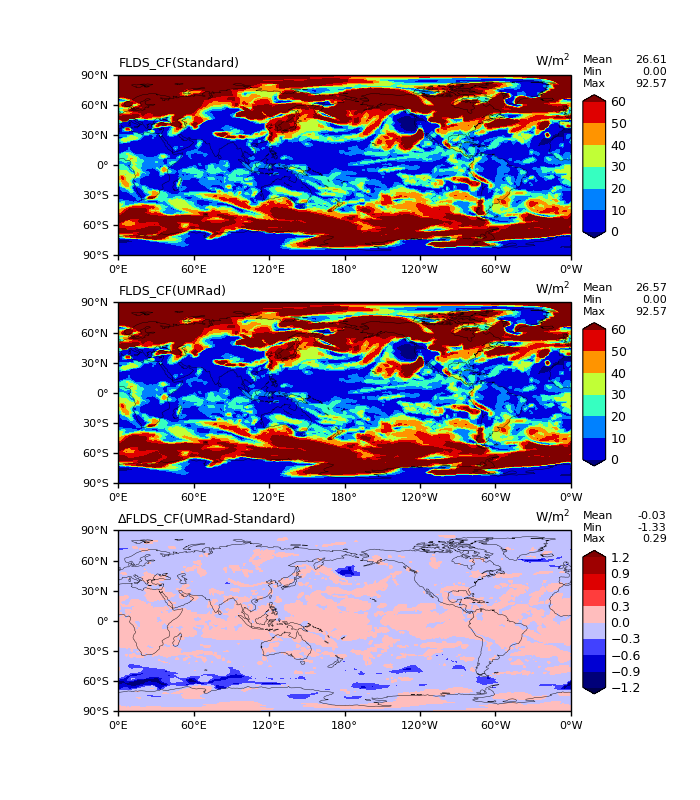
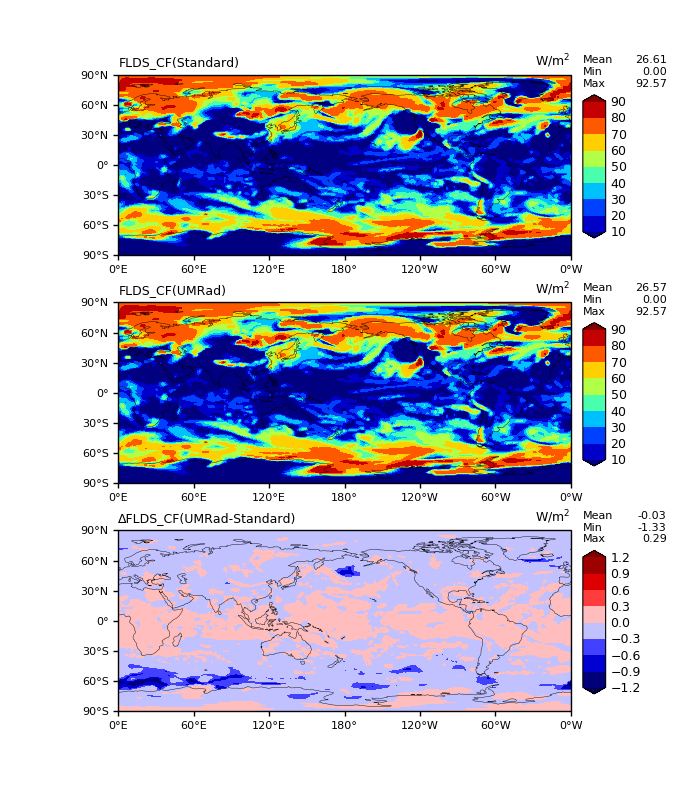
add 4

Changed region(s): [[0.15, 0.375, 0.9, 0.625], [0.15, 0.0938, 0.9, 0.3438]]

diff --git a/d1_lon_lat_contour_model_vs_model_sgl.py b/d1_lon_lat_contour_model_vs_model_sgl.py
@@ -124,11 +124,11 @@ for i in range(0,3):
     levels = None
     norm = None
     if i != 2:
-        cnlevels=np.array([0,10,20,30,40,50,60]) #parameters["contour_levs"]
+        #cnlevels=np.array([0,10,20,30,40,50,60]) #parameters["contour_levs"]
         #cnlevels=np.arange(145,320,20)
         #cnlevels=np.arange(90,450,30)
         #cnlevels=np.arange(20,150,10)
-        #cnlevels=np.arange(10,100,10)
+        cnlevels=np.arange(10,100,10)
         #cnlevels=np.arange(0,1,0.1)
     else:
         #cnlevels=np.arange(-0.5,0.6,0.1)
